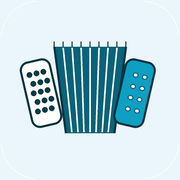
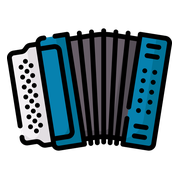
Add files via upload

diff --git a/app.html b/app.html
@@ -305,6 +305,20 @@ main{flex:1;padding:8px 16px 24px}
 .bp-chfill{height:100%;border-radius:5px}
 .bp-note{font-size:10px;color:var(--muted);margin-top:9px;text-align:center}
 .bp-empty{color:var(--muted);font-style:italic;padding:14px;text-align:center;font-size:12px}
+.bp-pkbar{cursor:pointer;transition:transform .1s}
+.bp-pkbar:active{transform:scale(.94)}
+/* Pickup detail (sheet) */
+.pkd-head{display:flex;justify-content:space-between;align-items:baseline;border-bottom:1px solid var(--line);padding-bottom:10px;margin-bottom:12px}
+.pkd-date{font-family:'Playfair Display',serif;font-size:18px;font-weight:600;color:var(--org-deep)}
+.pkd-tot{font-family:'DM Mono',monospace;font-size:14px;font-weight:600;color:var(--ink)}
+.pkd-sec{margin-bottom:16px}
+.pkd-sec-t{font-size:11px;font-weight:700;text-transform:uppercase;letter-spacing:.05em;color:var(--muted);margin-bottom:8px}
+.pkd-row{margin-bottom:8px}
+.pkd-rowtop{display:flex;justify-content:space-between;align-items:baseline;margin-bottom:3px}
+.pkd-k{font-size:13px;color:var(--ink);overflow:hidden;text-overflow:ellipsis;white-space:nowrap}
+.pkd-v{font-family:'DM Mono',monospace;font-size:12px;font-weight:600;color:var(--ink);white-space:nowrap;margin-left:8px}
+.pkd-track{height:7px;background:var(--org-tint);border-radius:5px;overflow:hidden}
+.pkd-fill{height:100%;border-radius:5px}
 </style>
 </head>
 <body>
@@ -985,7 +999,7 @@ function mobRenderBigPicture(){
   catch(e){ html+='<div class="bp-empty">No booking-curve data.</div>'; }
   html+='<div class="bp-title">Pickup · last 7 days (RN booked / day)</div>';
   try{ const days=_bigPickupByDay(sel,7); const mx=Math.max(1,...days.map(d=>d.rn));
-    html+='<div class="bp-pkbars">'+days.map(d=>`<div class="bp-pkbar"><div class="bp-pkv">${d.rn}</div><div class="bp-pktrack"><div class="bp-pkfill" style="height:${Math.round(d.rn/mx*100)}%"></div></div><div class="bp-pklab">${d.label}</div></div>`).join('')+'</div>'; }
+    html+='<div class="bp-pkbars">'+days.map(d=>`<div class="bp-pkbar" data-pkday="${d.ymdNum}"><div class="bp-pkv">${d.rn}</div><div class="bp-pktrack"><div class="bp-pkfill" style="height:${Math.round(d.rn/mx*100)}%"></div></div><div class="bp-pklab">${d.label}</div></div>`).join('')+'</div><div class="bp-note">Tap a day for the booking detail</div>'; }
   catch(e){ html+='<div class="bp-empty">No pickup data.</div>'; }
   html+='<div class="bp-title">Channel share · by revenue (year)</div>';
   try{ const A=aggOTBYearly(sel);
@@ -1004,6 +1018,27 @@ function mobRenderBigPicture(){
     } else html+='<div class="bp-empty">No channel data.</div>';
   } catch(e){ html+='<div class="bp-empty">No channel data.</div>'; }
   host.innerHTML=html;
+  host.querySelectorAll('.bp-pkbar[data-pkday]').forEach(el=> el.addEventListener('click', ()=> mobOpenPickupDay(+el.dataset.pkday)));
+}
+function mobPickupDetailHTML(ymdNum){
+  const sel=MOB.struct;
+  let t; try{ t=_bigPickupTreeForDay(sel, ymdNum); }catch(e){ return '<div class="bp-empty">No data.</div>'; }
+  const s=String(ymdNum), dlab=`${s.slice(6,8)}/${s.slice(4,6)}/${s.slice(0,4)}`;
+  const barList=(title, arr, color)=>{
+    if(!arr || !arr.length) return '';
+    const mx=Math.max(1,...arr.map(x=>x.rn));
+    return `<div class="pkd-sec"><div class="pkd-sec-t">${title}</div>`+arr.slice(0,6).map(x=>`<div class="pkd-row"><div class="pkd-rowtop"><span class="pkd-k">${escapeHtml(x.label)}</span><span class="pkd-v">${x.rn} RN</span></div><div class="pkd-track"><div class="pkd-fill" style="width:${Math.round(x.rn/mx*100)}%;background:${color}"></div></div></div>`).join('')+'</div>';
+  };
+  let html=`<div class="pkd-head"><div class="pkd-date">Pickup · ${dlab}</div><div class="pkd-tot">${t.totRn} RN · ${fmtEUR(t.totRev)}</div></div>`;
+  if(t.totRn===0){ html+='<div class="bp-empty">No bookings entered on this day.</div>'; return html; }
+  html+=barList('Stay dates booked', t.stayDays, 'var(--org)');
+  html+=barList('By channel', t.channels, 'var(--org-deep)');
+  html+=barList('By room type', t.rooms, 'var(--org-soft)');
+  return html;
+}
+function mobOpenPickupDay(ymdNum){
+  document.getElementById('sheet-body').innerHTML=mobPickupDetailHTML(ymdNum);
+  mobOpenSheet();
 }
 function mobRenderAll(){ if(MOB.tab==='days'){ mobRenderCalendar(); mobRenderDays(); } else if(MOB.tab==='month'){ mobRenderMonth(); } else if(MOB.tab==='rate'){ mobRenderRateShopper(); } else if(MOB.tab==='big'){ mobRenderBigPicture(); } }
 document.addEventListener('DOMContentLoaded', ()=>{
